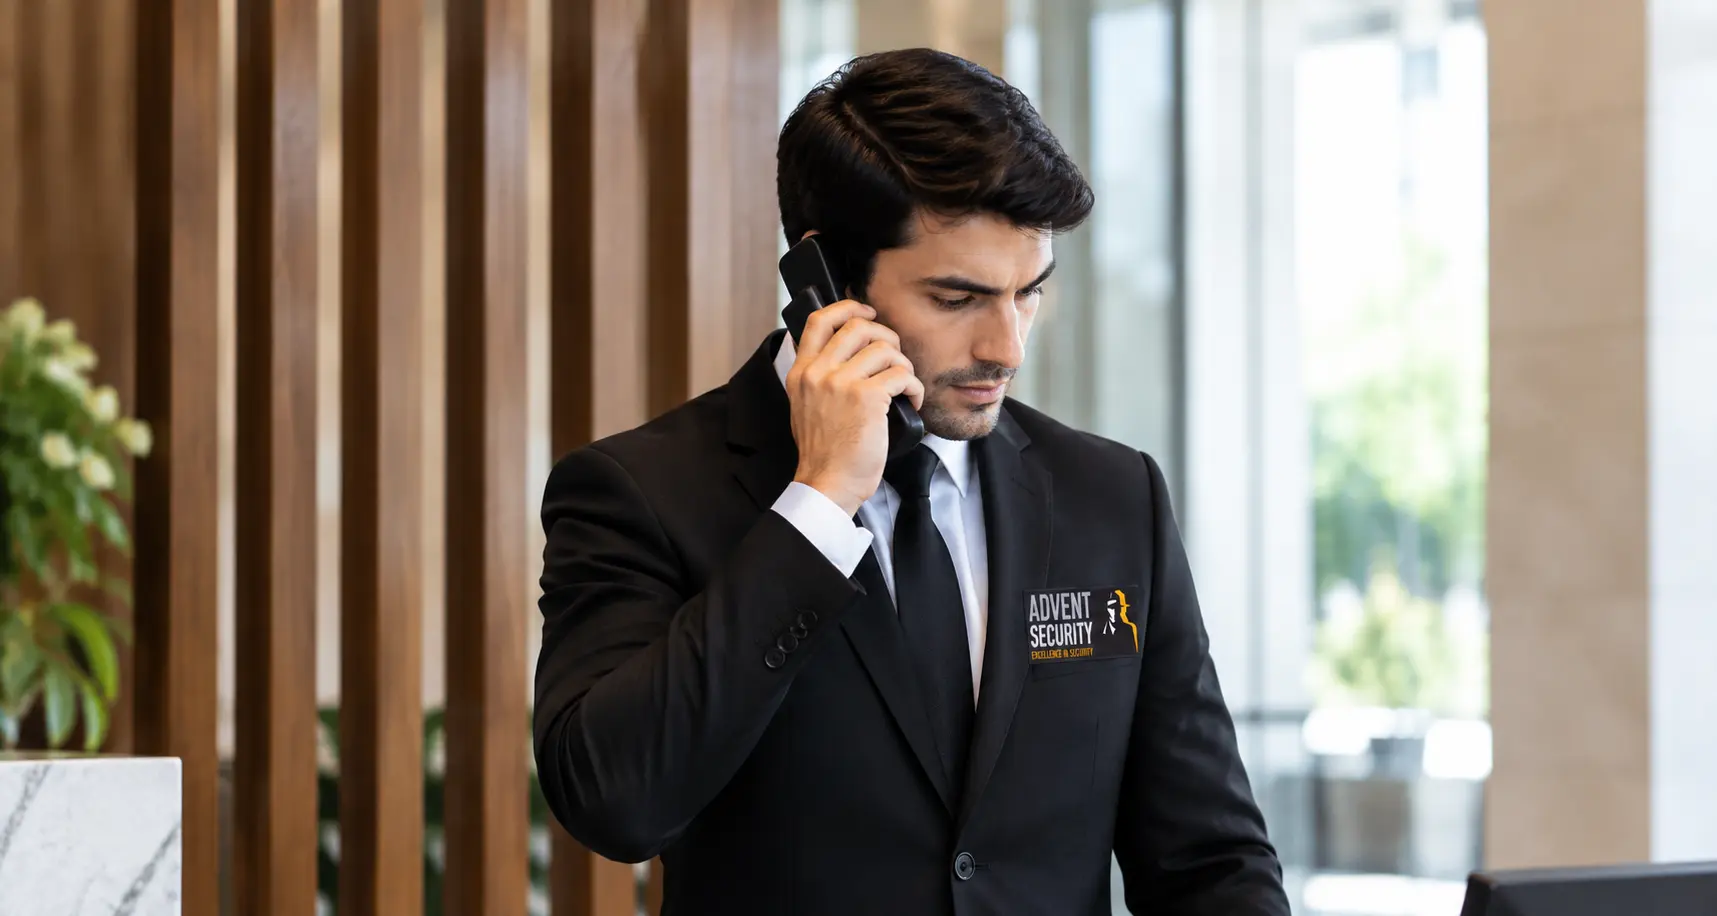
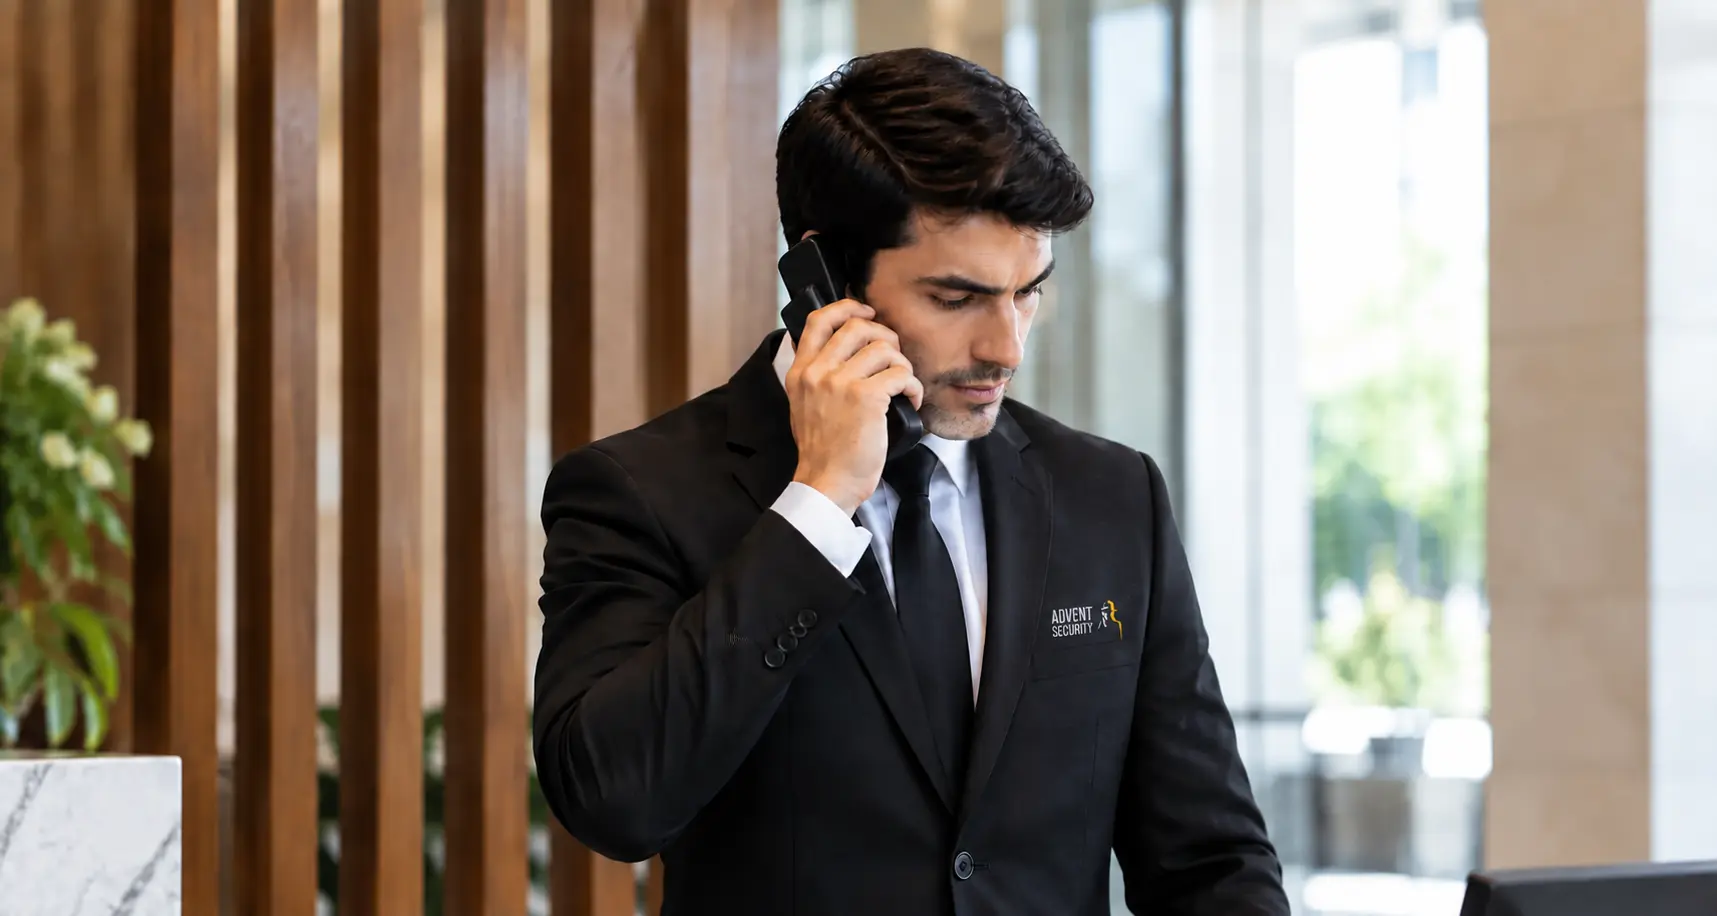
made the changes in lpr page

diff --git a/assets/css/license-plate-recognition.css b/assets/css/license-plate-recognition.css
@@ -108,7 +108,7 @@
 
     min-height: 650px;
 
-    background-image: url("../images/license-plate-recognition/imagelpr1.webp");
+    /* background-image: url("../images/license-plate-recognition/imagelpr1.webp"); */
     background-size: cover;
     background-position: 8% center;
     background-repeat: no-repeat;
@@ -128,6 +128,41 @@
         transparent 45%,
         rgba(0, 0, 0, 0.08)
     );
+}
+
+.hero {
+    display: grid;
+    grid-template-columns: 46% 54%;
+
+    min-height: 650px;
+
+    background: var(--color-bg);
+
+    border-bottom: 1px solid var(--color-border);
+}
+
+.hero h1 {
+    margin: 0;
+
+    color: var(--color-text);
+
+    font-family: var(--font-primary);
+    font-size: clamp(52px, 5.5vw, 82px);
+    font-weight: 600;
+    line-height: 0.95;
+    letter-spacing: -2.5px;
+}
+
+.hero-photo {
+    position: relative;
+
+    min-height: 650px;
+
+    background-size: cover;
+    background-position: 8% center;
+    background-repeat: no-repeat;
+
+    overflow: hidden;
 }
 
 /* =========================================================

diff --git a/header.php b/header.php
@@ -104,6 +104,7 @@
                         </a>
                     </li>
 
+
                     <!-- <li>
                         <a href="#contact">
                             Contact
